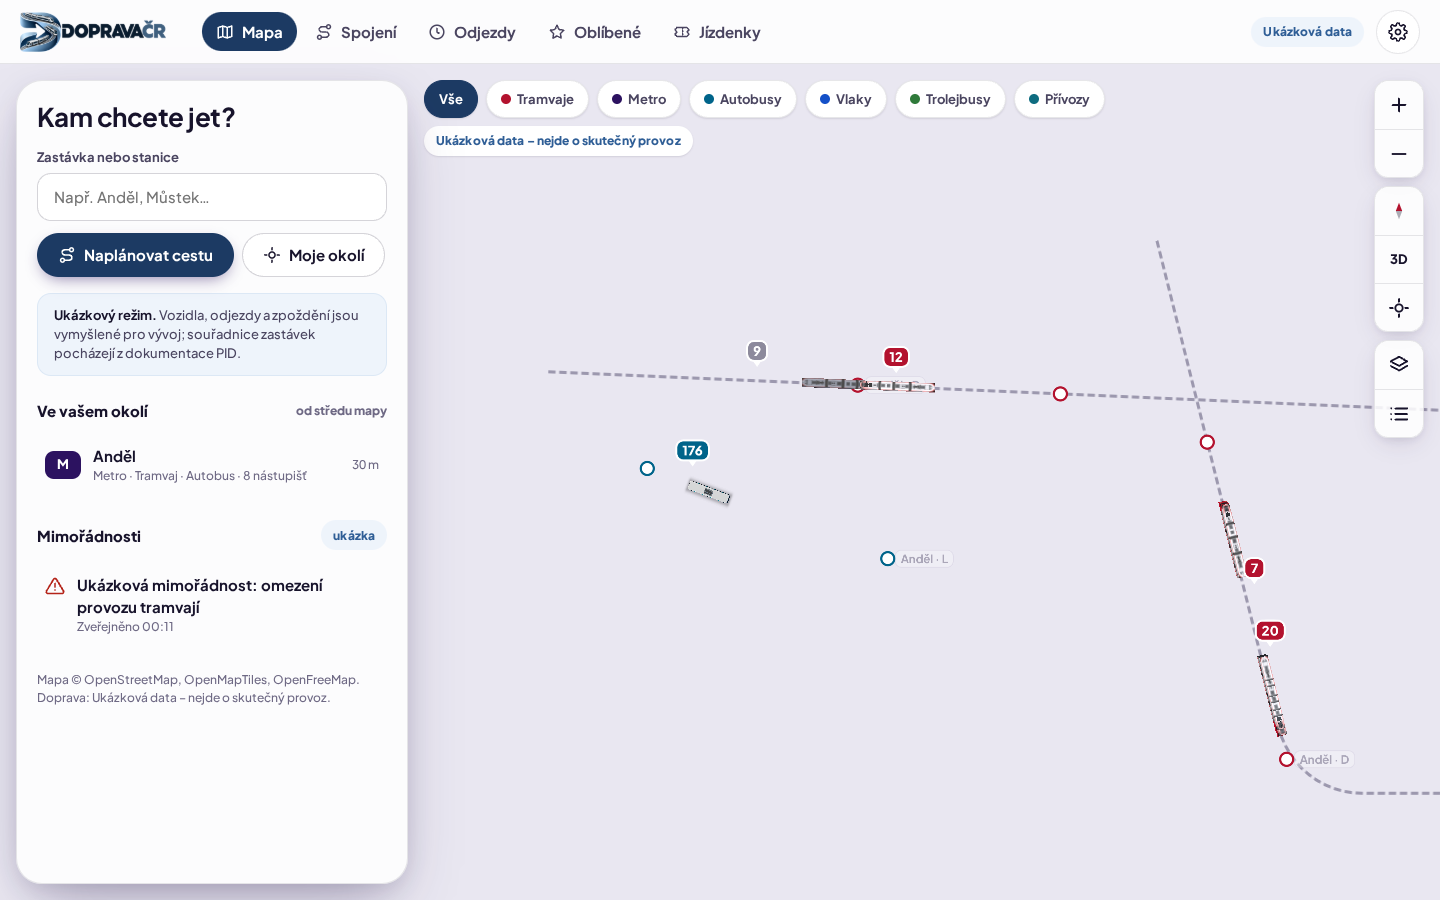
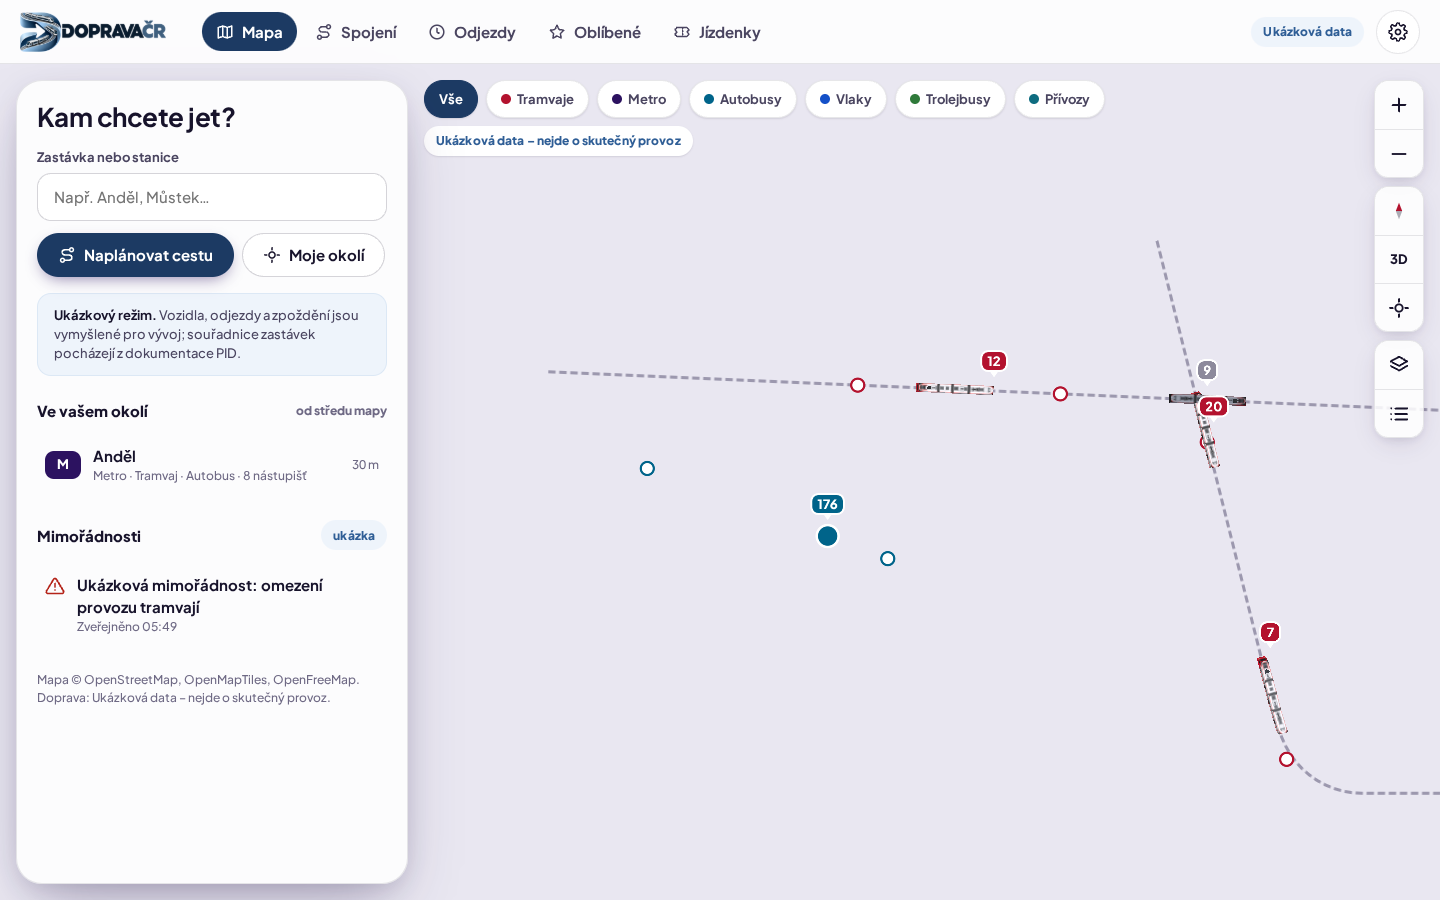
v0.5.2

diff --git a/src/providers/pid/provider.ts b/src/providers/pid/provider.ts
@@ -9,7 +9,7 @@ import { fetchJson, fetchText } from '@/server/http';
 import { log } from '@/server/log';
 import { makeMeta } from '@/server/respond';
 import type { ProviderInfo, TransitProvider } from '../types';
-import { GOLEMIO_HOST, departureBoardUrl, type BoardQuery, golemioHeaders, mapDepartureBoard, mapVehicleCollection, vehiclePositionsUrl } from './golemio';
+import { GOLEMIO_HOST, departureBoardUrl, detailsOf, type BoardQuery, golemioHeaders, mapDepartureBoard, mapPublicVehicles, mapVehicleCollection, publicVehiclePositionsUrl, vehiclePositionsUrl, type VehicleDetails } from './golemio';
 import { PID_DATA_HOST, PID_STOPS_URL, buildStopIndex, searchStops, stopsInBBox, toAswId, type StopIndex } from './stops';
 import { PID_ALERTS_URL, PID_WEB_HOST, parseAlertsRss } from './alerts';
 
@@ -21,6 +21,8 @@ const INFO: ProviderInfo = {
 interface Config { golemioKey: string | null; cache: SharedCache; bucket: TokenBucket; stopsFile?: string }
 
 export function createPidProvider(cfg: Config): TransitProvider {
+  /** Poslední polohy vozů (pro rozpoznání skutečně nového měření u veřejného endpointu). */
+  const seen = new Map<string, { lat: number; lon: number; at: number }>();
   const meta = (source: string, extra: Partial<SourceMeta>): SourceMeta =>
     makeMeta({ provider: 'pid', source, status: 'live', fetchedAt: null, sourceTimestamp: null, attribution: INFO.attribution, ...extra });
 
@@ -46,13 +48,37 @@ export function createPidProvider(cfg: Config): TransitProvider {
     async vehicles(bbox: BBox | null) {
       if (!cfg.golemioKey) return unavailable<VehicleState[]>([], 'golemio:vehiclepositions', 'missing_api_key', 'Živé polohy PID vyžadují klíč Golemio API na serveru.');
       const key = cfg.golemioKey;
+      const headers = golemioHeaders(key);
+      // Doplňující údaje (směr, vůz, zastávky) z plného endpointu: na pozadí po 30 s, polohy na ně nečekají.
+      const details = (): Map<string, VehicleDetails> => {
+        const e = cfg.cache.peek<Map<string, VehicleDetails>>('pid:veh-details');
+        if (!e || Date.now() - e.fetchedAt > 30_000) {
+          void cfg.cache.get('pid:veh-details', { ttlMs: 30_000, staleMs: 15 * 60_000, canFetch: () => cfg.bucket.take() }, async () => {
+            const raw = await fetchJson(vehiclePositionsUrl(), { provider: 'golemio', allowHosts: [GOLEMIO_HOST], headers, timeoutMs: 25_000, retries: 0, maxBytes: 60 * 1024 * 1024 });
+            const { vehicles } = mapVehicleCollection(raw);
+            return new Map(vehicles.filter((v) => v.tripId).map((v) => [v.tripId as string, detailsOf(v)]));
+          }).catch((e2) => log('warn', 'golemio.details.error', { error: e2 instanceof Error ? e2.message : String(e2) }));
+        }
+        return e?.value ?? new Map();
+      };
       try {
-        const r = await cfg.cache.get('pid:vehicles', { ttlMs: 3_000, staleMs: 180_000, canFetch: () => cfg.bucket.take() }, async () => {
-          const raw = await fetchJson(vehiclePositionsUrl(), { provider: 'golemio', allowHosts: [GOLEMIO_HOST], headers: golemioHeaders(key), timeoutMs: 15000, retries: 1, maxBytes: 60 * 1024 * 1024 });
-          const { vehicles, invalid } = mapVehicleCollection(raw);
-          if (invalid) log('warn', 'golemio.vehicles.invalid', { invalid, valid: vehicles.length });
-          const newest = vehicles.reduce((m, v) => Math.max(m, v.measuredAt ? Date.parse(v.measuredAt) : 0), 0);
-          return { vehicles, newest };
+        const r = await cfg.cache.get('pid:vehicles', { ttlMs: 2_500, staleMs: 180_000, canFetch: () => cfg.bucket.take() }, async () => {
+          try {
+            // Hlavní zdroj: lehký veřejný endpoint (celé PID ~70 kB) – rychlý i ve špičce.
+            const raw = await fetchJson(publicVehiclePositionsUrl(), { provider: 'golemio', allowHosts: [GOLEMIO_HOST], headers, timeoutMs: 8_000, retries: 1, maxBytes: 20 * 1024 * 1024 });
+            const { vehicles, invalid } = mapPublicVehicles(raw, details(), seen, Date.now());
+            if (invalid) log('warn', 'golemio.public.invalid', { invalid, valid: vehicles.length });
+            if (!vehicles.length) throw new Error('veřejný endpoint nevrátil žádná vozidla');
+            return { vehicles, newest: Date.now() };
+          } catch (e) {
+            // Záloha: plný endpoint (pomalejší, ale se všemi údaji).
+            log('warn', 'golemio.public.fallback', { error: e instanceof Error ? e.message : String(e) });
+            const raw = await fetchJson(vehiclePositionsUrl(), { provider: 'golemio', allowHosts: [GOLEMIO_HOST], headers, timeoutMs: 20_000, retries: 0, maxBytes: 60 * 1024 * 1024 });
+            const { vehicles, invalid } = mapVehicleCollection(raw);
+            if (invalid) log('warn', 'golemio.vehicles.invalid', { invalid, valid: vehicles.length });
+            const newest = vehicles.reduce((m, v) => Math.max(m, v.measuredAt ? Date.parse(v.measuredAt) : 0), 0);
+            return { vehicles, newest };
+          }
         });
         const sourceTs = r.value.newest ? new Date(r.value.newest).toISOString() : null;
         const feedAge = r.value.newest ? (Date.now() - r.value.newest) / 1000 : null;

diff --git a/src/providers/pid/golemio.ts b/src/providers/pid/golemio.ts
@@ -2,7 +2,7 @@ import { z } from 'zod';
 import { nsId } from '@/domain/ids';
 import { isValidBearing } from '@/domain/angles';
 import { inCzechia, isValidLngLat } from '@/domain/geo';
-import { knownDelay, UNKNOWN_DELAY, type Delay, type Departure, type PositionState, type VehicleState } from '@/domain/model';
+import { knownDelay, UNKNOWN_DELAY, type Delay, type Departure, type Mode, type PositionState, type VehicleState } from '@/domain/model';
 import { modeFromRouteType } from '@/domain/modes';
 import { parseInstant } from '@/domain/time';
 
@@ -179,4 +179,58 @@ export function departureBoardUrl(q: BoardQuery, limit: number): string {
   if (q.by === 'names') p.set('includeMetroTrains', 'true');
   for (const v of q.values.slice(0, 40)) p.append(`${q.by}[]`, v);
   return `${GOLEMIO_BASE}/v2/pid/departureboards?${p.toString()}`;
+}
+
+// ---------- Lehký veřejný endpoint poloh (určený pro mapové aplikace; ~70 kB gzip pro celé PID) ----------
+export function publicVehiclePositionsUrl(): string {
+  return `${GOLEMIO_BASE}/v2/public/vehiclepositions`;
+}
+
+const PUB_MODE: Record<string, Mode> = { tram: 'tram', metro: 'metro', train: 'train', bus: 'bus', ferry: 'ferry', funicular: 'funicular', trolleybus: 'trolleybus' };
+const PubFeature = z.object({
+  geometry: z.object({ coordinates: z.array(z.unknown()) }).passthrough(),
+  properties: z.object({ gtfs_trip_id: nstr, route_type: nstr, gtfs_route_short_name: nstr, bearing: nnum, delay: nnum, vehicle_id: nstr, state_position: nstr }).passthrough(),
+}).passthrough();
+
+/** Doplňující údaje o spoji z plného endpointu (směr, vůz, zastávky…) – načítají se na pozadí, polohy na nich nečekají. */
+export type VehicleDetails = Pick<VehicleState, 'headsign' | 'registration' | 'vehicleTypeLabel' | 'wheelchair' | 'airConditioned' | 'lastStopName' | 'nextStopName' | 'speedMps'>;
+export const detailsOf = (v: VehicleState): VehicleDetails => ({ headsign: v.headsign, registration: v.registration, vehicleTypeLabel: v.vehicleTypeLabel, wheelchair: v.wheelchair,
+  airConditioned: v.airConditioned, lastStopName: v.lastStopName, nextStopName: v.nextStopName, speedMps: v.speedMps });
+
+/**
+ * Převod /v2/public/vehiclepositions. Endpoint neuvádí čas měření: poloha, která se od minulého dotazu
+ * nezměnila, si ponechá původní čas (`seen`), jinak dostane čas načtení – animace tak vidí jen skutečné nové polohy.
+ */
+export function mapPublicVehicles(raw: unknown, details: Map<string, VehicleDetails>, seen: Map<string, { lat: number; lon: number; at: number }>, now: number): { vehicles: VehicleState[]; invalid: number } {
+  const fc = z.object({ features: z.array(z.unknown()) }).safeParse(raw);
+  if (!fc.success) throw new Error('Neočekávaný formát veřejných poloh Golemio');
+  const out = new Map<string, VehicleState>();
+  let invalid = 0;
+  for (const item of fc.data.features.slice(0, 8000)) {
+    const f = PubFeature.safeParse(item);
+    if (!f.success) { invalid++; continue; }
+    const [lon, lat] = f.data.geometry.coordinates as [unknown, unknown];
+    const p = f.data.properties;
+    const mode = PUB_MODE[p.route_type ?? ''];
+    if (typeof lon !== 'number' || typeof lat !== 'number' || !mode || !p.gtfs_route_short_name) { invalid++; continue; }
+    if (p.state_position === 'canceled') continue;
+    const reg = (p.vehicle_id ?? '').match(/(\d+)\s*$/)?.[1] ?? null;
+    const tripId = p.gtfs_trip_id ? nsId('pid', 'trip', p.gtfs_trip_id) : null;
+    const d = tripId ? details.get(tripId) : undefined;
+    const id = nsId('pid', 'vehicle', d?.registration ?? reg ?? p.vehicle_id ?? p.gtfs_trip_id ?? `${lon},${lat}`);
+    const prev = seen.get(id);
+    const at = prev && Math.abs(prev.lat - lat) < 1e-6 && Math.abs(prev.lon - lon) < 1e-6 ? prev.at : now;
+    seen.set(id, { lat, lon, at });
+    const state = p.state_position === 'before_track_delayed' ? 'before_track' : p.state_position;
+    out.set(id, {
+      id, route: { id: null, shortName: p.gtfs_route_short_name, mode }, tripId, headsign: d?.headsign ?? null, lat, lon,
+      bearing: typeof p.bearing === 'number' ? p.bearing : null, bearingSource: typeof p.bearing === 'number' ? 'provider' : null,
+      speedMps: d?.speedMps ?? null, delay: typeof p.delay === 'number' ? knownDelay(p.delay) : UNKNOWN_DELAY, measuredAt: new Date(at).toISOString(),
+      registration: d?.registration ?? reg, vehicleTypeLabel: d?.vehicleTypeLabel ?? null, wheelchair: d?.wheelchair ?? null, airConditioned: d?.airConditioned ?? null,
+      isCanceled: false, positionState: (['on_track', 'off_track', 'at_stop', 'before_track'].includes(state ?? '') ? state : 'unknown') as VehicleState['positionState'],
+      lastStopName: d?.lastStopName ?? null, nextStopName: d?.nextStopName ?? null,
+    });
+  }
+  if (seen.size > 6000) for (const k of [...seen.keys()].slice(0, seen.size - 6000)) seen.delete(k);
+  return { vehicles: [...out.values()], invalid };
 }

diff --git a/tests/unit/providers-assets.test.ts b/tests/unit/providers-assets.test.ts
@@ -71,7 +71,13 @@ describe('PID adaptér', () => {
     const body = { type: 'FeatureCollection', features: [{ type: 'Feature', geometry: { type: 'Point', coordinates: [14.40363, 50.07193] },
       properties: { last_position: { bearing: 90, origin_timestamp: new Date(clock - 20_000).toISOString(), delay: { actual: 0 } },
         trip: { gtfs: { route_short_name: '9', route_type: 0, trip_id: 't1' }, vehicle_registration_number: '9241' } } }] };
-    const f = vi.fn().mockResolvedValueOnce(new Response(JSON.stringify(body), { status: 200 })).mockResolvedValue(new Response('chyba', { status: 503 }));
+    // lehký veřejný endpoint mlčí (404) → záloha na plný; první plný dotaz uspěje, pak výpadek
+    let fullOk = 1;
+    const f = vi.fn(async (u: string | URL | Request, init?: RequestInit) => {
+      void init;
+      if (String(u).includes('/v2/public/')) return new Response('nenalezeno', { status: 404 });
+      return fullOk-- > 0 ? new Response(JSON.stringify(body), { status: 200 }) : new Response('chyba', { status: 503 });
+    });
     vi.stubGlobal('fetch', f);
     const p = mk('test-key', () => clock);
     const live = await p.vehicles(null);
@@ -142,6 +148,31 @@ describe('odjezdy: spolehlivé napojení na Golemio (i pro metro)', () => {
     const byName = urls.find((x) => x.includes('names[]'))!;
     expect(byName).toContain('names[]=Anděl');
     expect(byName).toContain('includeMetroTrains=true');
+    vi.unstubAllGlobals();
+  });
+});
+
+describe('polohy: rychlý zdroj a záloha', () => {
+  const mk = () => createPidProvider({ golemioKey: 'k', cache: new SharedCache(() => Date.now()), bucket: new TokenBucket(16, 16 / 8000), stopsFile });
+  const pub = { type: 'FeatureCollection', features: [{ type: 'Feature', geometry: { type: 'Point', coordinates: [14.42, 50.08] }, properties: { gtfs_trip_id: 't1', route_type: 'tram', gtfs_route_short_name: '9', bearing: 0, delay: 0, vehicle_id: 'service-0-8500', state_position: 'on_track' } }] };
+  it('bere polohy z lehkého veřejného endpointu; když selže, použije plný', async () => {
+    for (const m of ['log', 'warn', 'error'] as const) vi.spyOn(console, m).mockImplementation(() => {});
+    let publicDown = false;
+    const urls: string[] = [];
+    vi.stubGlobal('fetch', vi.fn(async (u: string | URL | Request) => {
+      const url = String(u); urls.push(url);
+      if (url.includes('/v2/public/vehiclepositions')) return publicDown ? new Response('err', { status: 503 }) : new Response(JSON.stringify(pub), { status: 200 });
+      return new Response(JSON.stringify({ type: 'FeatureCollection', features: [] }), { status: 200 });
+    }));
+    const r = await mk().vehicles(null);
+    expect(r.meta.status).toBe('live');
+    expect(r.data).toHaveLength(1);
+    expect(r.data[0]).toMatchObject({ route: { shortName: '9', mode: 'tram' }, registration: '8500' });
+    expect(urls[0]).toContain('/v2/public/vehiclepositions');
+    publicDown = true;
+    const r2 = await mk().vehicles(null);
+    expect(urls.some((x) => x.includes('/v2/vehiclepositions?limit=10000'))).toBe(true);
+    expect(r2.meta.status === 'error' || r2.data.length === 0).toBe(true); // plný zdroj v testu prázdný
     vi.unstubAllGlobals();
   });
 });

diff --git a/tests/unit/adapters.test.ts b/tests/unit/adapters.test.ts
@@ -171,3 +171,27 @@ describe('úplnost poloh vozidel z Golemia', () => {
     expect(out.vehicles[0]!.lon).toBeCloseTo(14.42);
   });
 });
+
+describe('lehký veřejný endpoint poloh Golemio', () => {
+  const sample = (lon: number) => ({ type: 'FeatureCollection', features: [
+    { type: 'Feature', geometry: { type: 'Point', coordinates: [lon, 50.08] }, properties: { gtfs_trip_id: '22_1_261002', route_type: 'tram', gtfs_route_short_name: '22', bearing: 90, delay: 60, vehicle_id: 'service-0-9257', state_position: 'on_track' } },
+    { type: 'Feature', geometry: { type: 'Point', coordinates: [14.43, 50.07] }, properties: { gtfs_trip_id: 'A_1', route_type: 'metro', gtfs_route_short_name: 'A', bearing: null, delay: null, vehicle_id: 'service-1-71', state_position: 'at_stop' } },
+    { type: 'Feature', geometry: { type: 'Point', coordinates: [14.44, 50.07] }, properties: { gtfs_trip_id: 'x', route_type: 'bus', gtfs_route_short_name: '135', bearing: 10, delay: 0, vehicle_id: 'service-3-1', state_position: 'canceled' } },
+  ] });
+  it('mapuje druh, linku, vůz, zpoždění a doplní směr z plného zdroje; zrušené vynechá', async () => {
+    const { mapPublicVehicles } = await import('@/providers/pid/golemio');
+    const { nsId } = await import('@/domain/ids');
+    const details = new Map([[nsId('pid', 'trip', '22_1_261002') as string, { headsign: 'Bílá Hora', registration: '9257', vehicleTypeLabel: 'tramvaj', wheelchair: true, airConditioned: true, lastStopName: 'Muzeum', nextStopName: 'I. P. Pavlova', speedMps: 8 }]]);
+    const seen = new Map<string, { lat: number; lon: number; at: number }>();
+    const T = Date.parse('2026-10-02T06:00:00Z');
+    const a = mapPublicVehicles(sample(14.42), details, seen, T).vehicles;
+    expect(a).toHaveLength(2);
+    expect(a[0]).toMatchObject({ registration: '9257', headsign: 'Bílá Hora', route: { shortName: '22', mode: 'tram' }, bearing: 90, delay: { kind: 'known', seconds: 60 } });
+    expect(a[1]).toMatchObject({ route: { mode: 'metro', shortName: 'A' }, positionState: 'at_stop', delay: { kind: 'unknown' } });
+    // stejná poloha = žádné nové měření (čas zůstane), změna polohy = nový čas
+    const b = mapPublicVehicles(sample(14.42), details, seen, T + 3000).vehicles;
+    expect(b[0]!.measuredAt).toBe(new Date(T).toISOString());
+    const c = mapPublicVehicles(sample(14.4205), details, seen, T + 6000).vehicles;
+    expect(c[0]!.measuredAt).toBe(new Date(T + 6000).toISOString());
+  });
+});

diff --git a/src/map/feed.ts b/src/map/feed.ts
@@ -67,6 +67,8 @@ export class VehicleFeed {
       if (res.status === 429) throw new Error('Příliš mnoho požadavků – zpomalujeme obnovu.');
       const body = (await res.json()) as Envelope<VehicleState[]>;
       if (!body || !Array.isArray(body.data) || !body.meta) throw new Error('Neplatná odpověď serveru');
+      // Chyba zdroje bez dat nesmí smazat vozidla z mapy – ponecháme poslední polohy a zkusíme to brzy znovu.
+      if (body.meta.status === 'error' && body.data.length === 0) throw new Error(body.meta.message ?? 'Zdroj poloh je dočasně nedostupný.');
       this.failures = 0;
       this.cb.onData(body, Date.now(), res.headers.get('x-doprava-offline') === '1');
       this.schedule(this.intervalMs);
@@ -76,7 +78,7 @@ export class VehicleFeed {
       // Síťová chyba (TypeError) = bez spojení se serverem; HTTP chyby jsou jiný stav.
       const offline = (typeof navigator !== 'undefined' && navigator.onLine === false) || err instanceof TypeError;
       this.cb.onError(offline ? 'Bez připojení. Zobrazujeme poslední známé polohy.' : err instanceof Error ? err.message : 'Data se nepodařilo načíst.', offline);
-      this.schedule(Math.min(60_000, this.intervalMs * 2 ** Math.min(this.failures, 3)));
+      this.schedule(Math.min(15_000, this.intervalMs * 2 ** Math.min(this.failures, 2)));
     } finally {
       clearTimeout(timeout);
     }

diff --git a/public/sw.js b/public/sw.js
@@ -1,5 +1,5 @@
 /* Doprava – service worker: offline obal aplikace a poslední data s jasně označeným stářím. */
-const VERSION = 'doprava-v5-1';
+const VERSION = 'doprava-v5-2';
 const SHELL = `${VERSION}-shell`, STATIC = `${VERSION}-static`, API = `${VERSION}-api`;
 const SHELL_URLS = ['/', '/odjezdy', '/spojeni', '/oblibene', '/jizdenky', '/nastaveni', '/map/offline-style.json', '/icons/icon-192.png', '/brand/logo.png', '/brand/logo-dark.png', '/favicon.ico'];
 const STATIC_PREFIXES = ['/_next/static/', '/vehicles/', '/icons/', '/map/', '/maplibre/'];

diff --git a/src/app/api/vehicles/route.ts b/src/app/api/vehicles/route.ts
@@ -6,6 +6,7 @@ import { serverEnv } from '@/server/env';
 import { demoRotationVehicles } from '@/providers/demo/provider';
 
 export const dynamic = 'force-dynamic';
+export const maxDuration = 30;
 
 export async function GET(req: Request) {
   if (!allowClient(req)) return tooMany();

diff --git a/CHANGELOG.md b/CHANGELOG.md
@@ -1,5 +1,10 @@
 # Changelog
 
+## 0.5.2 – 2026-10-02
+- Polohy vozidel z lehkého veřejného endpointu Golemio (/v2/public/vehiclepositions, celé PID ~70 kB) – rychlé i ve špičce; plný endpoint (10 000 vozidel, jednotky MB) se načítá jen na pozadí po 30 s kvůli směru, číslu vozu a zastávkám a slouží jako záloha. Ráno ve špičce se plný dotaz nestihl a mapa zůstala prázdná.
+- Chyba zdroje už nesmaže vozidla z mapy; nový pokus nejpozději za 15 s.
+- Serverové funkce běží ve Frankfurtu (blíž Golemiu v Praze), trasa poloh smí běžet až 30 s.
+
 ## 0.5.1 – 2026-10-02
 - Obrázky vozidel (PNG shora) se při velkém přiblížení už nerozpadají na části: velikost obrázku je vždy skutečná (dříve omezená na 560 px), interpolace přesně odpovídá zoomu.
 
